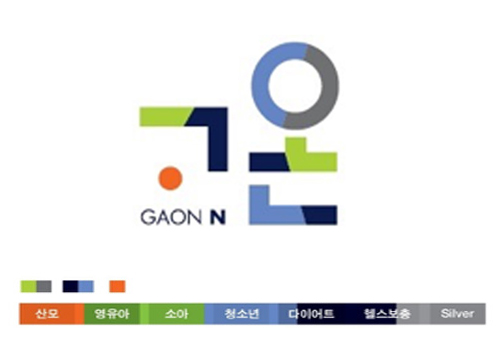
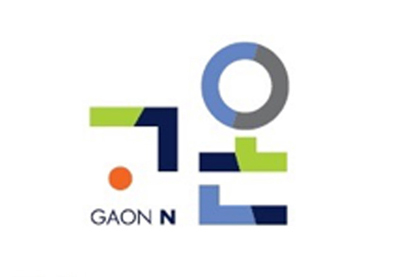
no message

Changed region(s): [[0.21, 0.1155, 0.75, 0.6931], [0.03, 0.6643, 0.99, 0.8953]]

diff --git a/template/gaonn_ci.html b/template/gaonn_ci.html
@@ -173,7 +173,7 @@
 
             <!-- banner start -->
             <!-- ================ -->
-            <div class="banner dark-translucent-bg" style="background-image:url('images/layout/visual_gaonn.jpg'); background-position: 50% 50%; background-size:cover;">
+            <div class="banner dark-translucent-bg" style="background-image:url('images/top_visual1.jpg'); background-position: 70% 85%; background-size:cover;">
                 <div class="container">
                     <div class="row">
                         <div class="col-md-8 pv-20">
@@ -201,18 +201,75 @@
                             <h1 class="page-title text-center">GAONN CI</h1>
                             <div class="separator"></div>
                             <!-- page-title end -->
-                            <section class="full-width-section pv-40 border-clear">
-                                <div class="clearfix">
-                                    <img class="object-non-visible animated object-visible slideInUp" data-animation-effect="slideInUp" data-effect-delay="100" src="images/gaonn_ci.jpg" alt="">
+                            <section class="full-width-section border-clear">
+                                <div class="clearfix ci-img">
+                                    <img class="" src="images/gaonn_ci.jpg" alt="" style="width:100%">
                                 </div>
-                                <div class="full-text-container light-gray-bg border-clear">
+                                <div class="full-text-container light-gray-bg border-clear" style="padding-left:0">
                                     <h2>㈜가온앤은 <strong>‘세상의 중심’</strong> </h2>
                                     <p class="large text-left">  그리고 and
                                         세상의 중심에서 무한한 발전을 실현 하고자 합니다.
                                         생명의 시작부터 노년기까지,
-                                        인류의 건강한 삶을  위하여 열심히 달리겠습니다.</p>
+                                        인류의 건강한 삶을  위하여 열심히 달리겠습니다.
+                                    </p>
+                                    <div class="pv-20">
+                                        <div class="ci-color">
+                                            <span class="cir cir1"></span>
+                                            <h3>산모</h3>
+                                        </div>
+                                        <div class="ci-color">
+                                            <span class="cir cir2"></span>
+                                            <h3>영유아</h3>
+                                        </div>
+                                        <div class="ci-color">
+                                            <span class="cir cir3"></span>
+                                            <h3>소아</h3>
+                                        </div>
+                                        <div class="ci-color">
+                                            <span class="cir cir4"></span>
+                                            <h3>청소년</h3>
+                                        </div>
+                                        <div class="ci-color">
+                                            <span class="cir cir5"></span>
+                                            <h3>다이어트</h3>
+                                        </div>
+                                        <div class="ci-color">
+                                            <span class="cir cir6"></span>
+                                            <h3>헬스보충</h3>
+                                        </div>
+                                        <div class="ci-color">
+                                            <span class="cir cir7"></span>
+                                            <h3>실버</h3>
+                                        </div>
+                                    </div>
                                 </div>
+                                
                             </section>
+
+                            <div class="row pv-80" style="max-width:900px;margin:0 auto">
+								<div class="col-md-4 col-sm-6">
+									<div class="ph-20 feature-box text-center">
+										<h3>01. CI 설명 타이틀1</h3>
+										<div class="separator clearfix"></div>
+										<p class="text-muted">보다 부드럽고 세련된, 편안함을 느끼게 하는 기업이 되겠다는 것을 나타냅니다.</p>
+									</div>
+								</div>
+                                <div class="col-md-4 col-sm-6">
+									<div class="ph-20 feature-box text-center">
+										<h3>02. CI 설명 타이틀2</h3>
+										<div class="separator clearfix"></div>
+										<p class="text-muted">보다 부드럽고 세련된, 편안함을 느끼게 하는 기업이 되겠다는 것을 나타냅니다.</p>
+									</div>
+								</div>
+                                <div class="col-md-4 col-sm-6">
+									<div class="ph-20 feature-box text-center">
+										<h3>03. CI 설명 타이틀3</h3>
+										<div class="separator clearfix"></div>
+										<p class="text-muted">보다 부드럽고 세련된, 편안함을 느끼게 하는 기업이 되겠다는 것을 나타냅니다.</p>
+									</div>
+								</div>
+							</div>
+                            
                         </div>
                         <!-- main end -->
 

diff --git a/template/css/custom.css b/template/css/custom.css
@@ -104,4 +104,14 @@ h1, h2, h3, h4, h5, h6, .navbar .navbar-nav{font-family: 'malgun gothic','Nanum 
 @media (max-width: 991px) {
   .story-box .body{padding-left:0}
 }
-
+.ci-img{text-align:center}
+.ci-img img{display:inline-block}
+.ci-color{width:25%;float:left}
+.ci-color .cir{display:inline-block;width:20px;height:20px;background-color:#f0652c;vertical-align:middle;position:relative;top:5px;border-radius:50%}
+.ci-color .cir.cir2{background-color:#5d9029}
+.ci-color .cir.cir3{background-color:#6da938}
+.ci-color .cir.cir4{background-color:#6886c6}
+.ci-color .cir.cir5{background-color:#506c9e}
+.ci-color .cir.cir6{background-color:#010028}
+.ci-color .cir.cir7{background-color:#86878c}
+.ci-color h3{display:inline-block;padding-left:10px;vertical-align:middle;font-size:16px}

diff --git a/template/css/style.css b/template/css/style.css
@@ -1516,6 +1516,18 @@ h5 + .separator {
   padding-top: 40px;
   padding-bottom: 40px;
 }
+.pv-50 {
+  padding-top: 50px;
+  padding-bottom: 50px;
+}
+.pv-80 {
+  padding-top: 80px;
+  padding-bottom: 80px;
+}
+.pv-100 {
+  padding-top: 100px;
+  padding-bottom: 100px;
+}
 .mt-5 {
   margin-top: 5px;
 }
